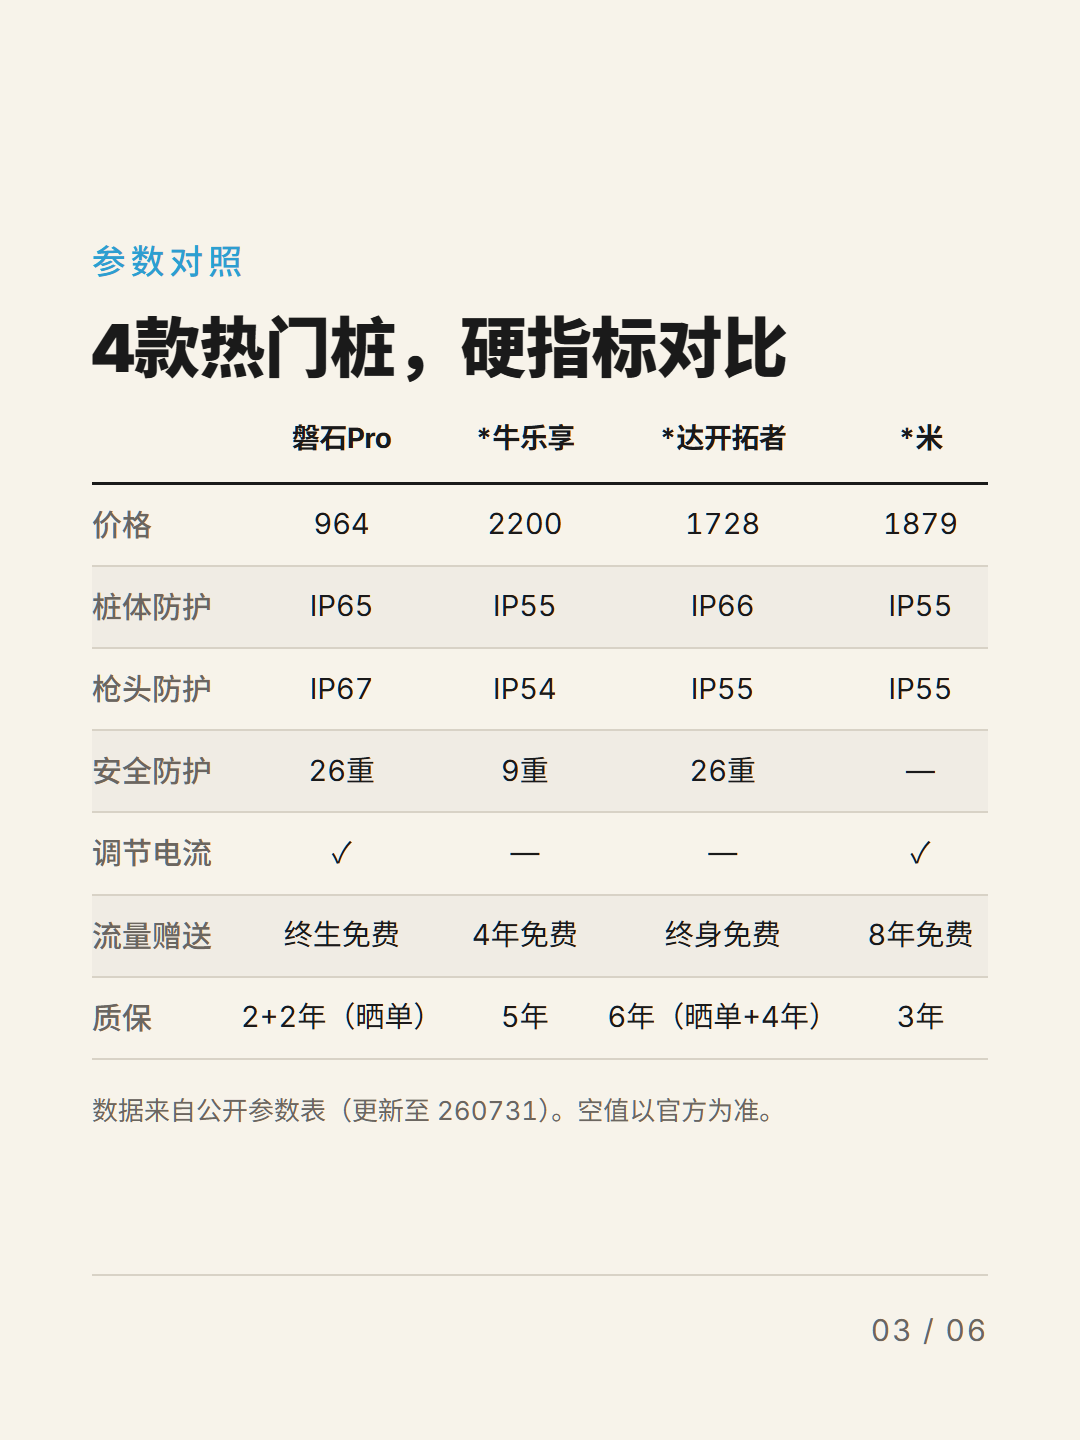
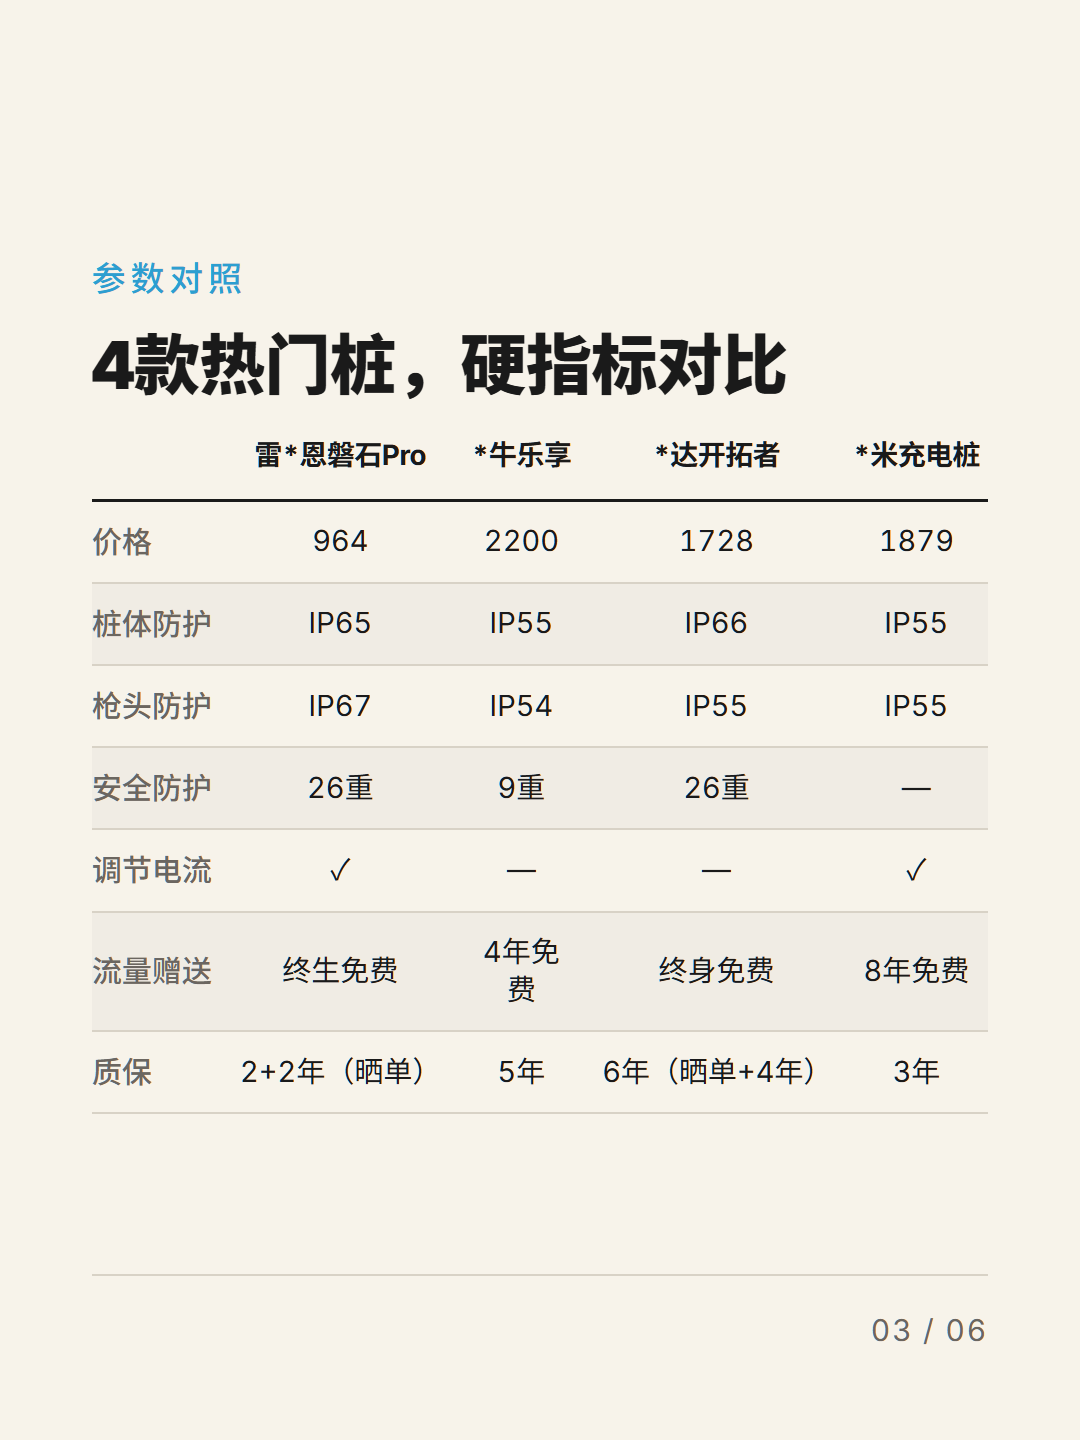
序号写死进模板；内部术语不外泄；品牌+型号写完整
- ios-memo 页码由模板自动计算，不再读数据里的 page（手填过一次就错一次）
- 尾图 kicker 从「收束」改为「写在最后」——前者是 PLAN 里的定位术语
- compliance 6.5 新增「内部术语不能出现在成品里」+ 判定方法
- 参数表去掉数据来源声明；表头改为品牌+型号完整写法
- image-production 标题改为七条分支

diff --git a/xhs-post/templates/ios-memo.html b/xhs-post/templates/ios-memo.html
@@ -39,12 +39,20 @@
       l.href = l.href + '&family=' + d.latinFont.replace(/ /g,'+') + ':wght@400;500;700;900';
   }
   var esc = function(s){ return String(s).replace(/&/g,'&amp;').replace(/</g,'&lt;'); };
+  /* 页码由模板自动计算，**不读数据里的 page 字段**。
+     手填过一次就会错一次（2026-08-19 实测：7 张卡的序号全填成了 /05）。 */
+  var total = d.cards.filter(function(x){ return x.type !== 'cover'; }).length;
+  var seq = 0;
   var html = d.cards.map(function(c){
     var cls = 'poster' + (c.serif ? ' serif' : '') + (c.type === 'cover' ? ' cover' : '');
     // 页脚只出页码。刻意不支持自定义文本 —— 素人账号不能有固定署名。
-    var foot = c.type === 'cover' ? '' :
-      '<div class="foot" data-qa-ignore><span></span><span>' +
-      esc(c.page || '') + '</span></div>';
+    var foot = '';
+    if (c.type !== 'cover') {
+      seq += 1;
+      var pad = function(n){ return (n < 10 ? '0' : '') + n; };
+      foot = '<div class="foot" data-qa-ignore><span></span><span>' +
+             pad(seq) + ' / ' + pad(total) + '</span></div>';
+    }
     if (c.type === 'cover')
       return '<section class="' + cls + '" id="' + esc(c.id || 'cover') + '"><div class="body">' +
         '<div class="big-num">' + esc(c.bigNum) + '</div>' +

diff --git a/xhs-post/templates/spec-table.html b/xhs-post/templates/spec-table.html
@@ -22,6 +22,9 @@ tbody th{
 }
 tbody tr:nth-child(even){background:var(--zebra)}
 td.hl{color:var(--accent); font-weight:700}
+/* note 是给读者看的补充说明。
+   ⚠ 不要写"数据来自XX参数表"这类来源声明 —— 那是内部引用，
+   写出来既像官方口径又暴露有内部资料。素人不会声明数据出处。 */
 .note{margin-top:30px; font-size:26px; color:var(--ink-dim); line-height:1.6}
 .warn{background:#ffe9e9; color:#a11; padding:28px; font-size:30px; line-height:1.6}
 </style>
@@ -83,7 +86,7 @@ document.body.innerHTML = cards.map(function(c){
     '<h1 class="title">' + esc(c.title) + '</h1>' +
     '<table><thead>' + head + '</thead><tbody>' + body + '</tbody></table>' +
     (c.note ? '<div class="note">' + esc(c.note) + '</div>' : '') + dense +
-    '</div>' + (c.page ? '<div class="foot" data-qa-ignore><span>' + esc(c.page) + '</span></div>' : '') +
+    '</div>' + (c.page ? '<div class="foot" data-qa-ignore><span>' + esc(c.page) + '</span></div>' : '')  /* 单张卡场景才手填；成组渲染时用 ios-memo 的自动编号 */ +
     '</section>';
 }).join('');
 

diff --git a/xhs-post/templates/product-card.html b/xhs-post/templates/product-card.html
@@ -73,7 +73,7 @@ document.body.innerHTML = (d.cards || []).map(function(c){
     shot +
     (chips ? '<div class="chips">' + chips + '</div>' : '') +
     (fits ? '<div class="fit-h">' + esc(c.fitLabel || '适合谁') + '</div><div class="fits">' + fits + '</div>' : '') +
-    '</div>' + (c.page ? '<div class="foot" data-qa-ignore><span>' + esc(c.page) + '</span></div>' : '') +
+    '</div>' + (c.page ? '<div class="foot" data-qa-ignore><span>' + esc(c.page) + '</span></div>' : '')  /* 单张卡场景才手填；成组渲染时用 ios-memo 的自动编号 */ +
     '</section>';
 }).join('');
 

diff --git a/xhs-post/references/compliance.md b/xhs-post/references/compliance.md
@@ -155,6 +155,22 @@
 
 ⚑ 建议：给每个素人账号固定一套配色，账号之间不重复。这条需要你确认怎么管理。
 
+### ⚠ 内部术语不能出现在成品里
+
+计划文档里的**定位词**是我们自己的工作语言，不是给读者看的。印到图上等于自报家门。
+
+| ❌ 内部术语 | ✅ 成品里该怎么写 |
+|---|---|
+| 收束 / 收束卡 | 写在最后、最后说一句 |
+| 封面 / 首图 | （不写，封面不需要标注自己是封面） |
+| 类型卡 / 对号入座卡 | 类型一、类型二…… |
+| 痛点段 / 利他段 / 植入段 | （不写） |
+| voice 名（nanny-guide 等）、placement、卖点编号 | （绝不出现） |
+
+**判定方法：这个词是不是只有做这篇的人才会用？** 是 → 不能出现在正文和图上。
+
+（2026-08-19 实测：尾图 kicker 直接写了「收束」，那是 PLAN 里给这张图的定位。）
+
 ### ⚠ 精致本身是 PGC 信号
 
 `polish` 轴的选择不只是审美问题，是身份问题。素人体配精致杂志卡片，读者第一反应是"这是广告"——**不是因为内容不好，是因为普通人做不出这种图**。
@@ -205,6 +221,9 @@
 □ 监管时间点与口径正确（发布 vs 实施、经营性使用 vs 使用）
 □ 全部品牌名已脱敏（含雷*恩），型号名保留全称
 □ 无固定署名 / 品牌页脚 / 水印 / logo（素人账号）
+□ 无内部术语外泄（收束 / 封面 / voice 名 / 植入段…）
+□ 无数据来源声明（"数据来自XX参数表"是内部引用，不对外说明）
+□ 品牌+型号写完整（雷*恩磐石Pro，不是单写磐石Pro）
 □ 正文人称无「我们」「本品牌」
 □ 无内部信息（拿货价、渠道政策、未公开参数）
 □ 本篇配色与近期其他篇不重复（跨篇一致性会暴露）

diff --git a/xhs-post/references/image-production.md b/xhs-post/references/image-production.md
@@ -1,4 +1,4 @@
-# 配图落地 · 四条分支
+# 配图落地 · 七条分支
 
 `image-plan.md` 决定**用什么图**，本文决定**怎么把它做出来**。方案确认后走这里。
 
